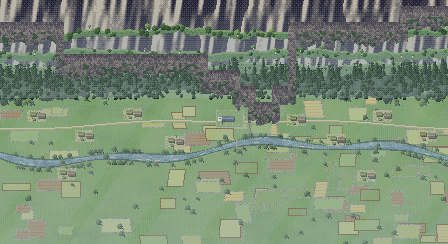
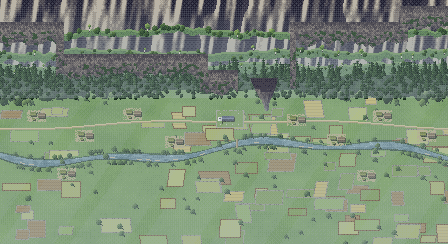
Åsen: berget under spissen ytst på hylla trekkjer seg inn under graset
Stupet under spissen er borte, tunga endar i overhenga med mørk underside, og i lia
er ura bytt ut med ei rot som smalnar inn og forsvinn i dis godt over vegen.
Sidenabbane har ikkje lenger lyse striper nedst eller oransje lav.

Changed region(s): [[0.5, 0.2869, 0.6875, 0.5164], [0.625, 0.2008, 0.6562, 0.2869], [0.625, 0.1434, 0.6562, 0.1721]]

diff --git a/js/rpg/data.js b/js/rpg/data.js
@@ -469,8 +469,8 @@ window.RPGData = (function () {
         "----UUUUUUUUU.....----------",
         "----MMMMMMMMMUU.\".----------",
         "-------------MMU.U----------",
-        "---------------MUM----------",
-        "----------------M-----------",
+        "----------------U-----------",
+        "----------------------------",
         "----------------------------",
         "----------------------------",
         "----------------------------",

diff --git a/tools/pikselkunst/utsikt.py b/tools/pikselkunst/utsikt.py
@@ -316,7 +316,10 @@ def ovanfra(W, H, s=0):
 
 # Kvar lufta byrjar under stupet, per flis-kolonne (kartrad), så skuggen under overhenget kjem rett.
 # Må stemme med rader i kartet asen i js/rpg/data.js: platået (17), hylla (20), neset (18), vika (16).
-LUFTRAD = [17] * 4 + [19] * 9 + [20] * 2 + [21, 22, 21] + [17] * 3 + [17] * 3 + [17] + [16] * 3   # hylla smalnar av til spissen (16,19)
+LUFTRAD = [17] * 4 + [19] * 9 + [20] * 2 + [20, 21, 20] + [17] * 3 + [17] * 3 + [17] + [16] * 3   # hylla smalnar av til spissen (16,19)
+# Under spissen ytst på hylla er det inga ur: berget trekkjer seg inn under overhenget og endar i ei smal
+# rot (sjå rot i li), så dalen og vegen syner under. Kolonnane (kartflis x) der rota står i staden for ura:
+ROT_X = (15, 16, 17)
 LI_TOPP = 15                          # biletet byrjar ved kartrad 15
 
 
@@ -397,8 +400,10 @@ def li():
     stein = M.rampe(BERG[1], BERG[2], BERG[3], BERG[4], BERG[5])
     kratt = M.rampe("#14261a", "#1e3622", "#2c4a2a", "#3e5e34")
     y0s = [(LUFTRAD[min(len(LUFTRAD) - 1, x // 16)] - LI_TOPP) * 16 for x in range(W)]
+    rotA, rotB = ROT_X[0] * 16, (ROT_X[-1] + 1) * 16
     for x in range(W):
         y0 = y0s[x]
+        if rotA - 2 <= x < rotB + 2: continue                                              # rota under spissen (under)
         # mjuk overgang mellom kolonnar med ulik høgd: botnen av ura glir over 8 pikslar
         nabo = [y0s[min(W - 1, max(0, x + d))] for d in (-8, 8)]
         top = y0 - 10
@@ -411,7 +416,27 @@ def li():
             if k > 0.45 and M.fbm(x / 3, y / 2.5, 853, 2) > 0.62: c = M.tone(kratt, 0.3 + (1 - k) * 0.6, x, y)   # kratt og einer
             if y - top < 8 and M.terskel(x, y) < (8 - (y - top)) / 8: c = M.blend(c, "#1c1a2c", 0.5)          # skuggen under overhenget
             L_.p(x, y, M.blend(c, DIS, 0.12 + k * 0.1))
+    rot(L_, ROT_X[1] * 16 + 8, (LUFTRAD[ROT_X[1]] - LI_TOPP) * 16 - 12, stein)
     return L_.im
+
+
+def rot(L_, cx, y0, stein):
+    """Berget under spissen ytst på hylla: under overhenget trekkjer det seg inn på skrå, smalare jo
+    lenger ned, til ei smal rot som forsvinn i dis godt over dalbotnen. Øvst ligg det i djup skugge
+    under graset, sida mot venstre får litt lys, sida mot høgre er mørk."""
+    hogd, hw0 = 30, 13
+    for y in range(y0 - 6, y0 + hogd):
+        t = max(0, (y - y0 + 6) / (hogd + 6))                                       # 0 øvst, 1 nedst
+        hw = hw0 * (1 - t) ** 1.2 + 0.5 + (M.fbm(y / 4, 1, 861, 2) - 0.5) * 3
+        if hw < 1: break
+        xc = cx + t * 3
+        for x in range(int(xc - hw), int(xc + hw) + 1):
+            u = (x + 0.5 - (xc - hw)) / (2 * hw)                                   # 0 venstre, 1 høgre
+            v = 0.3 + (0.25 if u < 0.25 else -0.2 if u > 0.72 else 0) + (M.h(x // 2, y // 2, 862) - 0.5) * 0.3
+            if y < y0 + 8 - (u < 0.25) * 3: v = 0.06 + (M.h(x, y, 863) - 0.5) * 0.1     # skuggen under overhenget
+            c = M.tone(stein, max(0.02, min(0.98, v)), x, y)
+            dis = math.floor((0.08 + t * t * 0.6) * 6 + M.terskel(x, y)) / 6            # forsvinn i dis nedover
+            L_.p(x, y, M.blend(c, DIS, dis))
 
 
 OV = 84                               # dalbiletet ovanfrå byrjar her i li (sjå li)
@@ -670,7 +695,7 @@ def lavflekk(L_, cx, cy, r, slag, s, lov):
 
 
 def nabb_ramme(vind, bjork, s, speil=False, w=NABB_W, h=NABB_H, topp=None, inner=None, ytre=None, y0=34,
-               radh=(40, 30, 48, 36, 56, 64), bw=(30, 34), nsprekk=4, lavar=("gul", "graa", "gul", "rust", "graa", "gul"),
+               radh=(84, 30, 48, 36, 56, 64), bw=(30, 34), nsprekk=4, lavar=("gul", "graa", "gul", "graa", "graa", "gul"),
                toppdjup=5, sider=(3, 2), lys=None, grasdjup=2, heng=0):
     """Ein bergnabb nær kameraet som kjem inn frå sida av biletet, bygd av steinblokker med klare flater
     (same stil som klippeveggene i kartet, litt mørkare og meir metta så nabben ligg framfor): lyse

diff --git a/tools/pikselkunst/ARBEIDSLOGG.md b/tools/pikselkunst/ARBEIDSLOGG.md
@@ -1489,3 +1489,19 @@ same måte, uansett kven som tek over.
 - **Sidenabbane:** 20 pikslar høgare (`y` 98 og 100), så sprekkene og laven syner både ytst på hylla
   og på neset.
 - **Vurdert:** `forhand/skjerm/r49-for-etter.png` (same utsnitt som r48: ytst på hylla og neset).
+
+## Runde 50: berget under spissen ytst på hylla trekkjer seg inn
+
+- **Oppdrag:** Brukaren: under den T-forma grastunga ytst på hylla hang ei brei, grå steinmasse rett
+  ned til vegen og såg ut som eit ras. Berget skal skråne inn under graset.
+- **Funne:** Massen var stupveggen under spissen («M» på 15,20, 17,20 og 16,21) og ura i `li` under
+  han, som gjekk 6 til 18 pikslar ned i lia og vart breiare ut til sidene.
+- **Gjort:** Kartet: dei tre «M» under spissen er luft, så tunga endar i overhenga («U» på 15,19, 17,19
+  og 16,20) med mørk underside og ope under. `LUFTRAD` følgjer med ([20, 21, 20] under spissen). I
+  `li` er det inga ur under spissen (`ROT_X`); i staden teiknar `rot()` berget som trekkjer seg inn
+  under overhenget: djup skugge øvst, smalare nedover, litt lys på sida mot venstre og mørk mot høgre,
+  og det forsvinn i dis til ei smal rot godt over dalbotnen. Vegen og dalen syner fritt rundt og under.
+- **Småting:** Sidenabbane har høgare første blokkrad (84), så toppen av neste rad (den lyse stripa)
+  ikkje lenger syner nedst i biletet ytst på hylla eller på neset. Ingen rustlav att.
+- **Vurdert:** `forhand/skjerm/r50-for-etter.png`: ytst på hylla med kameraet oppe, ytst på hylla med
+  kameraet glidd ned, og neset.
